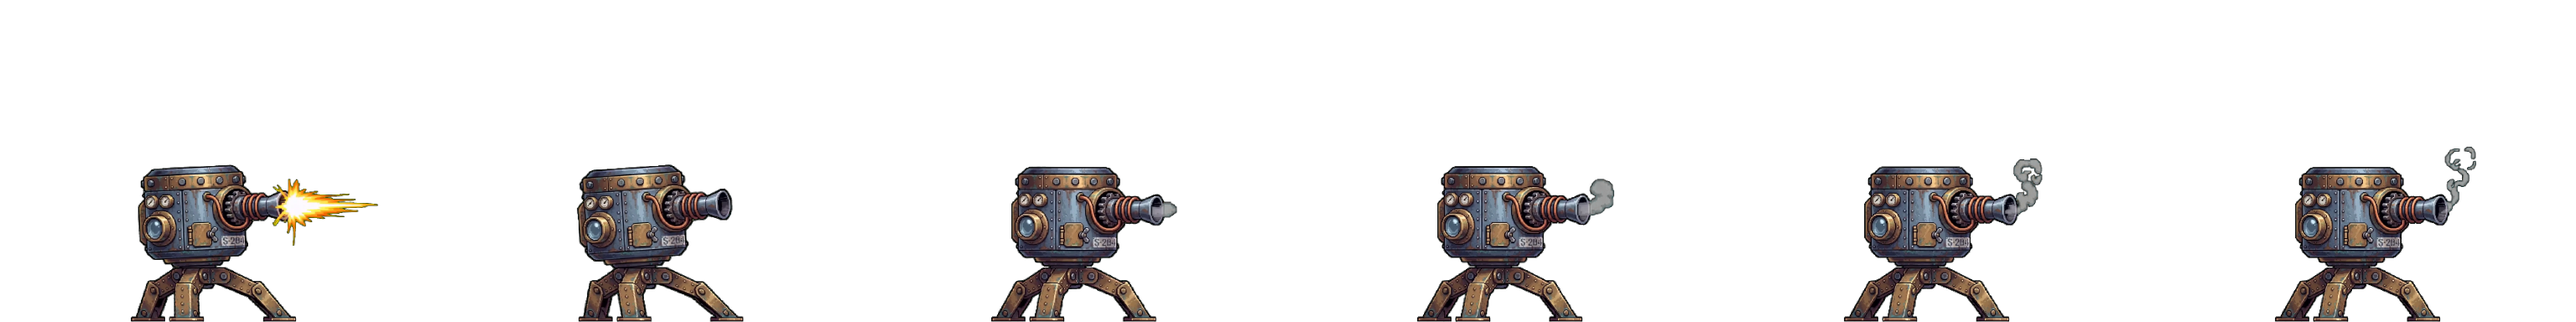
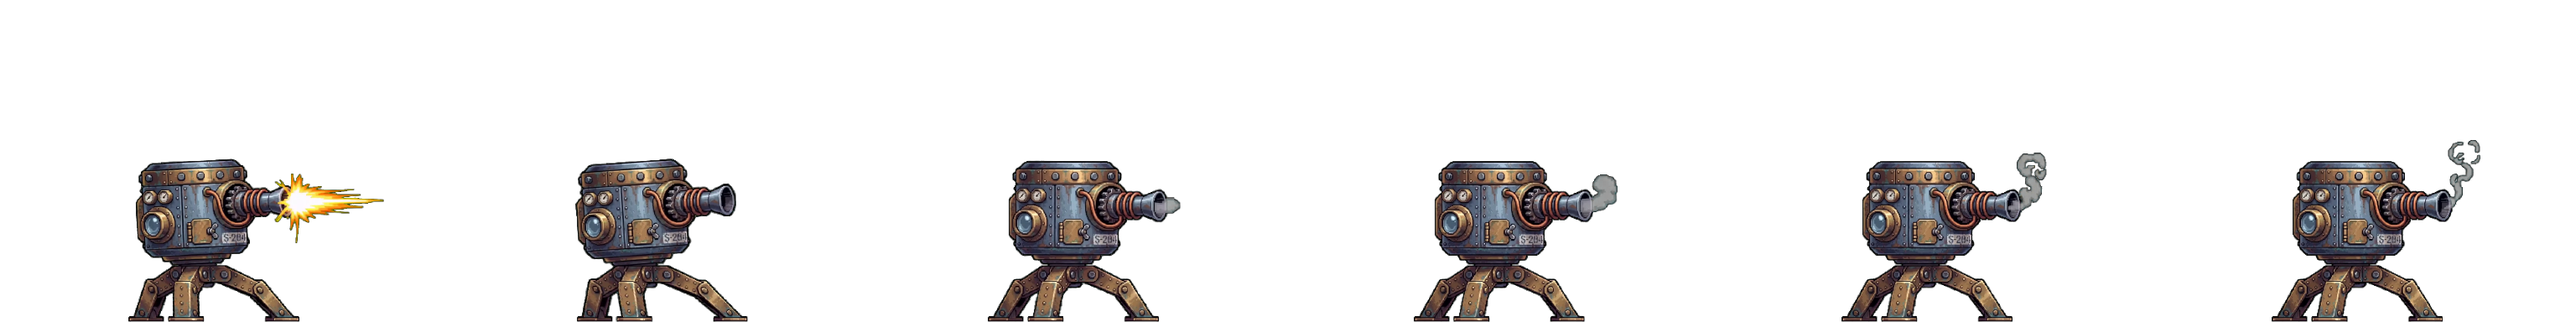
fix(art): the sentry shrank when it fired and shrank again when it died
Same mistake twice, and the second was made while fixing the first.

"When you shoot, the animation becomes smaller."
"When it dies, when they play the K/O animation, it becomes smaller."

A per-action scale is derived by matching the drawn figure to the slug's
renderHeightPx. The tempting landmark is the SILHOUETTE, and for a walk
cycle it is fine. It is wrong for anything carrying an effect: the sentry's
clips have a muzzle flash, a steam plume and a debris spray, and every one
inflates the bounding box WITHOUT making the machine bigger. Match that box
to a target and the machine shrinks by exactly what the effect added.

                       derived from            tripod   vs idle
  idle                 slug scale              205 px   --
  fire  0.42572062     mean silhouette height  198 px   -3%  (barely visible)
  death 0.34408602     f0 silhouette height    160 px   -22% (obvious)

The death note even recorded WHY the mean was rejected -- eight frame
heights spanning 558..722, "because a wreck legitimately GROWS as its
debris spreads" -- and then used the first frame's silhouette instead,
which has the same disease in a smaller dose.

THE LANDMARK THAT WORKS: THE TRIPOD BASE

Same physical object in all three sheets, at the bottom of the frame, and
no effect touches it -- steam rises, debris falls outward, the flash is at
barrel height. Correcting each to idle's 205 px gives 0.44077135 and
0.44086021, agreeing to 0.02%. That agreement is the real finding: both
[…]

diff --git a/tests/unit/sprite-size-consistency.test.ts b/tests/unit/sprite-size-consistency.test.ts
@@ -1,0 +1,244 @@
+/**
+ * One character is ONE SIZE, whatever it is doing.
+ *
+ * ## The defect, reported twice by the user in two sessions
+ *
+ * > *"This is a K-1 animation now for stationary, but when you shoot, the animation becomes
+ * > smaller."* — 2026-08-14, about `brass-sentry/fire`
+ *
+ * > *"The stationary character, when it dies, when they play the K/O animation, it becomes
+ * > smaller."* — 2026-08-14, about `brass-sentry/death`
+ *
+ * Both are the same mistake, made twice, and the second was made **while fixing the first**.
+ *
+ * ## Why the obvious measurement is the wrong one
+ *
+ * A per-action scale is derived by matching the drawn figure to the slug's `renderHeightPx`. The
+ * tempting landmark is the SILHOUETTE — the opaque bounding box — and for a walk cycle it is fine.
+ *
+ * It is wrong for anything with an **effect**. A sentry's clips carry a muzzle flash, a steam plume
+ * and a debris spray; every one inflates the silhouette without making the machine any bigger. Scale
+ * the silhouette to a target and the machine shrinks by exactly however much the effect added:
+ *
+ * | | tripod span | vs idle |
+ * |---|---|---|
+ * | `idle` | 205 px | — |
+ * | `fire`, scaled by silhouette mean | 198 px | −3 % (barely visible) |
+ * | `death`, scaled by its first frame's silhouette | **160 px** | **−22 % (obvious)** |
+ *
+ * ## The landmark that works
+ *
+ * **The tripod base.** It is the same physical object in all three sheets, it is at the bottom of
+ * the frame, and no effect in any of these clips touches it — steam rises, debris falls outward, the
+ * muzzle flash is at barrel height. Its span across the bottom rows is therefore a measurement of
+ * the MACHINE rather than of the picture.
+ *
+ * Correcting `fire` and `death` to match idle's 205 px gave 0.44077135 and 0.44086021 — agreeing to
+ * **0.02 %**, which is the real finding: both were shot from the same padded anchor, so one scale
+ * was always right for both and two independently-derived numbers were never justified.
+ *
+ * ## What this file is, and what it is not
+ *
+ * It gates the PROPERTY — a character does not change size between its own animations — against the
+ * shipped PNGs, so no future per-action scale can be derived from a silhouette and pass. It is not a
+ * check that a scale equals a literal; that would go stale the moment art is re-shot, and would be
+ * satisfied by a number nobody had looked at.
+ *
+ * ⚠ It deliberately does NOT assert that a dying body has the same silhouette as a living one. A
+ * wreck spreads: `rust-scavenger/death` throws debris **476 px** wide against a **200 px** body, and
+ * that is the art doing what an explosion does at the correct scale. The landmark is chosen to be
+ * blind to that on purpose.
+ */
+
+import { describe, expect, it } from 'vitest';
+
+import { readPng } from '../../tools/gen/png.mjs';
+import catalog from '../../public/assets/index.json';
+
+/** Rows above the deepest opaque row that count as "the base". One tile at RENDER_SCALE / 4. */
+const BASE_ROWS = 24;
+
+/** How far a base may differ from its slug's reference before it reads as a different machine. */
+const TOLERANCE = 0.1;
+
+interface Row {
+  key: string;
+  url: string;
+  frameWidth: number;
+  frameHeight: number;
+  frameCount: number;
+}
+
+/**
+ * The width of the figure's footprint in frame `index` — its contact with the ground.
+ *
+ * Measured in the band above each frame's OWN deepest opaque row, so a pose that lifts off the floor
+ * is measured at its own feet rather than against an absolute row that would catch empty space.
+ */
+function baseSpan(row: Row, index: number): number {
+  const img = readPng(`public/assets/${row.url.replace(/^assets\//, '')}`);
+  const alpha = (x: number, y: number): number => img.data[(y * img.width + x) * 4 + 3]!;
+  const x0 = index * row.frameWidth;
+
+  let deepest = -1;
+  for (let y = row.frameHeight - 1; y >= 0 && deepest < 0; y -= 1) {
+    for (let x = 0; x < row.frameWidth; x += 1) {
+      if (alpha(x0 + x, y) > 8) {
+        deepest = y;
+        break;
+      }
+    }
+  }
+  if (deepest < 0) return 0;
+
+  let minX = Number.POSITIVE_INFINITY;
+  let maxX = -1;
+  for (let y = Math.max(0, deepest - (BASE_ROWS - 1)); y <= deepest; y += 1) {
+    for (let x = 0; x < row.frameWidth; x += 1) {
+      if (alpha(x0 + x, y) > 8) {
+        if (x < minX) minX = x;
+        if (x > maxX) maxX = x;
+      }
+    }
+  }
+  return maxX < 0 ? 0 : maxX - minX + 1;
+}
+
+const rowFor = (key: string): Row | undefined =>
+  catalog.sheets.find((sheet) => sheet.key === key) as Row | undefined;
+
+/**
+ * `brass-sentry` is the slug this gate exists for, and the only one whose every animation shows the
+ * same rigid object from the same angle.
+ *
+ * The courier is deliberately absent: it is a person, and a person's footprint legitimately changes
+ * between standing, running and lying down. The scavenger's is measured on its two locomotion loops
+ * only, for the same reason — its death ends as a pile of scrap that has no legs at all.
+ */
+describe('a machine is the same machine in every animation it plays', () => {
+  const reference = rowFor('brass-sentry-idle');
+
+  it('the reference sheet exists — an absent one would make every ratio below NaN', () => {
+    expect(reference).toBeDefined();
+    expect(baseSpan(reference!, 0)).toBeGreaterThan(0);
+  });
+
+  it.each(['brass-sentry-fire', 'brass-sentry-death'])(
+    '%s stands on the same tripod as the idle it interrupts',
+    (key) => {
+      const row = rowFor(key);
+      expect(row, `${key} is not in the catalog`).toBeDefined();
+
+      const want = baseSpan(reference!, 0);
+      const got = baseSpan(row!, 0);
+      const ratio = got / want;
+
+      expect(
+        Math.abs(ratio - 1),
+        `${key} frame 0 has a ${got}px base against idle's ${want}px — ${((ratio - 1) * 100).toFixed(1)}%. ` +
+          'The machine changes size when it plays this animation, which the user reported twice. ' +
+          'Almost certainly a per-action scale derived from the SILHOUETTE: a muzzle flash, steam ' +
+          'or debris inflates the bounding box without making the machine bigger, so matching that ' +
+          'box to renderHeightPx shrinks the machine. Re-derive from this landmark instead — see ' +
+          'character-bounds-brass-sentry.json.',
+      ).toBeLessThan(TOLERANCE);
+    },
+  );
+
+  /**
+   * The gate must be able to SEE a wrong scale, not merely pass on a right one. `death` shipped at
+   * 0.34408602 and measured 160 px against 205 — a ratio of 0.78, which is 2.2x the tolerance. A
+   * gate that could not distinguish that from correct would be decoration.
+   */
+  it('is sensitive enough to have caught the defect it was written for', () => {
+    const want = baseSpan(reference!, 0);
+    const asShipped = Math.round((baseSpan(rowFor('brass-sentry-death')!, 0) * 0.34408602) / 0.44081578);
+    expect(Math.abs(asShipped / want - 1)).toBeGreaterThan(TOLERANCE);
+  });
+});
+
+/**
+ * The scavenger is measured on HEIGHT, not on its base — and finding out why is worth recording.
+ *
+ * The first version of this file applied the tripod landmark to the scavenger too, and it failed by
+ * **56 %**. Not a scale error: the sentry's tripod is a RIGID frame, and the scavenger's legs are
+ * not. In `walk` frame 0 one foot is planted and the other is mid-swing (a 42 px footprint); in
+ * `chase` frame 0 both legs are extended (143 px). Its footprint is a POSE, and comparing poses
+ * across two different gaits measures the gait.
+ *
+ * Height is the landmark that survives for a legged body: a walking machine's standing height barely
+ * moves between gaits, and `character-bounds-rust-scavenger.json` already derives the slug's scale
+ * from exactly that quantity.
+ *
+ * **A landmark has to be chosen per body plan.** That is the general lesson, and it is why this file
+ * does not try to gate `brass-courier` at all: a person legitimately changes both footprint and
+ * height between standing, running and lying down.
+ */
+describe('the scavenger is the same body at both of its gaits', () => {
+  const heightOf = (row: Row, index: number): number => {
+    const img = readPng(`public/assets/${row.url.replace(/^assets\//, '')}`);
+    const alpha = (x: number, y: number): number => img.data[(y * img.width + x) * 4 + 3]!;
+    const x0 = index * row.frameWidth;
+    let min = Number.POSITIVE_INFINITY;
+    let max = -1;
+    for (let y = 0; y < row.frameHeight; y += 1) {
+      for (let x = 0; x < row.frameWidth; x += 1) {
+        if (alpha(x0 + x, y) > 8) {
+          if (y < min) min = y;
+          if (y > max) max = y;
+        }
+      }
+    }
+    return max < 0 ? 0 : max - min + 1;
+  };
+
+  it('walk and chase stand the same height — the same machine at two speeds', () => {
+    const walk = rowFor('rust-scavenger-walk');
+    const chase = rowFor('rust-scavenger-chase');
+    expect(walk).toBeDefined();
+    expect(chase).toBeDefined();
+
+    const ratio = heightOf(chase!, 0) / heightOf(walk!, 0);
+    expect(
+      Math.abs(ratio - 1),
+      'the scavenger changes height between walking and chasing — the two sheets were packed at ' +
+        'different scales',
+    ).toBeLessThan(TOLERANCE);
+  });
+
+  /**
+   * Frame 0 only: the machine is still intact and standing there. This is the assertion that says
+   * the user's other report — *"when he dies, the animation of the kill becomes bigger"* — is the
+   * EXPLOSION and not a scale error. The intact machine is the right size; what grows afterwards is
+   * scrap, 476 px of it against a 200 px body, and that is the art doing what an explosion does.
+   */
+  it('the scavenger dies at the size it lived — the explosion is art, not a bad scale', () => {
+    const walk = rowFor('rust-scavenger-walk')!;
+    const death = rowFor('rust-scavenger-death')!;
+    const ratio = heightOf(death, 0) / heightOf(walk, 0);
+    expect(Math.abs(ratio - 1)).toBeLessThan(TOLERANCE);
+  });
+
+  it('...and the debris really does spread, so the note above is not describing nothing', () => {
+    // Non-vacuity for the claim in the test above: if the death sheet did NOT spread, "the growth
+    // is the explosion" would be an explanation for something that never happens.
+    const death = rowFor('rust-scavenger-death')!;
+    const img = readPng(`public/assets/${death.url.replace(/^assets\//, '')}`);
+    const alpha = (x: number, y: number): number => img.data[(y * img.width + x) * 4 + 3]!;
+    const widthAt = (index: number): number => {
+      const x0 = index * death.frameWidth;
+      let min = Number.POSITIVE_INFINITY;
+      let max = -1;
+      for (let y = 0; y < death.frameHeight; y += 1) {
+        for (let x = 0; x < death.frameWidth; x += 1) {
+          if (alpha(x0 + x, y) > 8) {
+            if (x < min) min = x;
+            if (x > max) max = x;
+          }
+        }
+      }
+      return max < 0 ? 0 : max - min + 1;
+    };
+    expect(widthAt(death.frameCount - 1)).toBeGreaterThan(widthAt(0) * 2);
+  });
+});

diff --git a/docs/qa/phase-05-combat.md b/docs/qa/phase-05-combat.md
@@ -2170,3 +2170,72 @@ even 3. That is the judder mechanism session 9 fixed for loops. It cannot be fix
 either pinning the frame count (no lever exists — the count comes from silhouette detection) or
 letting a one-shot carry an authored cadence, **which is a gate rule change and therefore a
 STOP-and-ask**. Flagged, not absorbed.
+
+### 🔴 The sentry shrank when it fired, and shrank further when it died — twice, the same mistake
+
+Reported on 2026-08-14, in two parts:
+
+> *"This is a K-1 animation now for stationary, but when you shoot, the animation becomes smaller."*
+> *"The stationary character, when it dies, when they play the K/O animation, it becomes smaller."*
+
+**The second was introduced while fixing the first**, by the same method, which is why the fix below
+is a landmark rather than a number.
+
+#### Why the obvious measurement is the wrong one
+
+A per-action scale is derived by matching the drawn figure to the slug's `renderHeightPx`. The
+tempting landmark is the **silhouette** — the opaque bounding box — and for a walk cycle it is fine.
+
+It is wrong for anything carrying an **effect**. The sentry's clips have a muzzle flash, a steam
+plume and a debris spray, and every one inflates the bounding box **without making the machine any
+bigger**. Match that box to a target and the machine shrinks by exactly what the effect added.
+
+| | derived from | tripod span | vs `idle` |
+|---|---|---|---|
+| `idle` | the slug scale | 205 px | — |
+| `fire` @ 0.42572062 | mean silhouette height | 198 px | −3 % (barely visible) |
+| `death` @ 0.34408602 | its first frame's silhouette height | **160 px** | **−22 % (obvious)** |
+
+The `death` note in the bounds file even recorded *why* the mean was rejected — the eight frame
+heights run 558…722, a 26.7 % spread, "because a wreck legitimately GROWS as its debris spreads" —
+and then used the **first frame's silhouette instead**, which has the same disease in a smaller dose.
+
+#### The landmark that works: the tripod base
+
+It is the same physical object in all three sheets, it sits at the bottom of the frame, and **no
+effect in any of these clips touches it** — steam rises, debris falls outward, the muzzle flash is at
+barrel height. Its span across the bottom 24 rows measures the **machine**, not the picture.
+
+Correcting each to idle's 205 px gives **0.44077135** (fire) and **0.44086021** (death) — agreeing to
+**0.02 %**. That agreement is the real finding: both clips were shot from the same padded anchor, so
+**one scale was always right for both**, and two independently-derived numbers were never justified.
+Shipped at their mean, **0.44081578**. Re-measured after repacking: **205, 205, 205**.
+
+#### The scavenger is NOT the same defect
+
+*"When he dies, the animation of the kill becomes bigger for each character."* Measured: `death`
+frame 0 stands **240 px** against the walk's **239** — correctly scaled. What grows is the
+**explosion**: the debris reaches **476 px** wide against a 200 px body, which is the art doing what
+an explosion does. Asserted in both directions, so "it is the explosion" is not an explanation for
+something that never happens.
+
+#### A landmark has to be chosen per body plan
+
+`tests/unit/sprite-size-consistency.test.ts`'s first version applied the tripod landmark to the
+scavenger too and failed by **56 %**. Not a scale error: the sentry's tripod is a **rigid** frame and
+the scavenger's legs are not. In `walk` frame 0 one foot is planted and the other mid-swing (a 42 px
+footprint); in `chase` frame 0 both legs extend (143 px). **Its footprint is a pose**, and comparing
+poses across two gaits measures the gait.
+
+Height is the landmark that survives for a legged body, and the scavenger's own bounds file already
+derives its slug scale from exactly that. `brass-courier` is deliberately not gated at all: a person
+legitimately changes both footprint and height between standing, running and lying down.
+
+That generalisation is the entry worth keeping. **The gate is per body plan, not per project.**
+
+#### Red-proof
+
+Restoring `death` to the shipped 0.34408602 and repacking turns the new gate red with the diagnosis
+in the failure message: *"brass-sentry-death frame 0 has a 160px base against idle's 205px — −22.0 %
+… almost certainly a per-action scale derived from the SILHOUETTE."* The file also carries a
+sensitivity assertion, so a gate that could not tell that from correct would itself be red.
